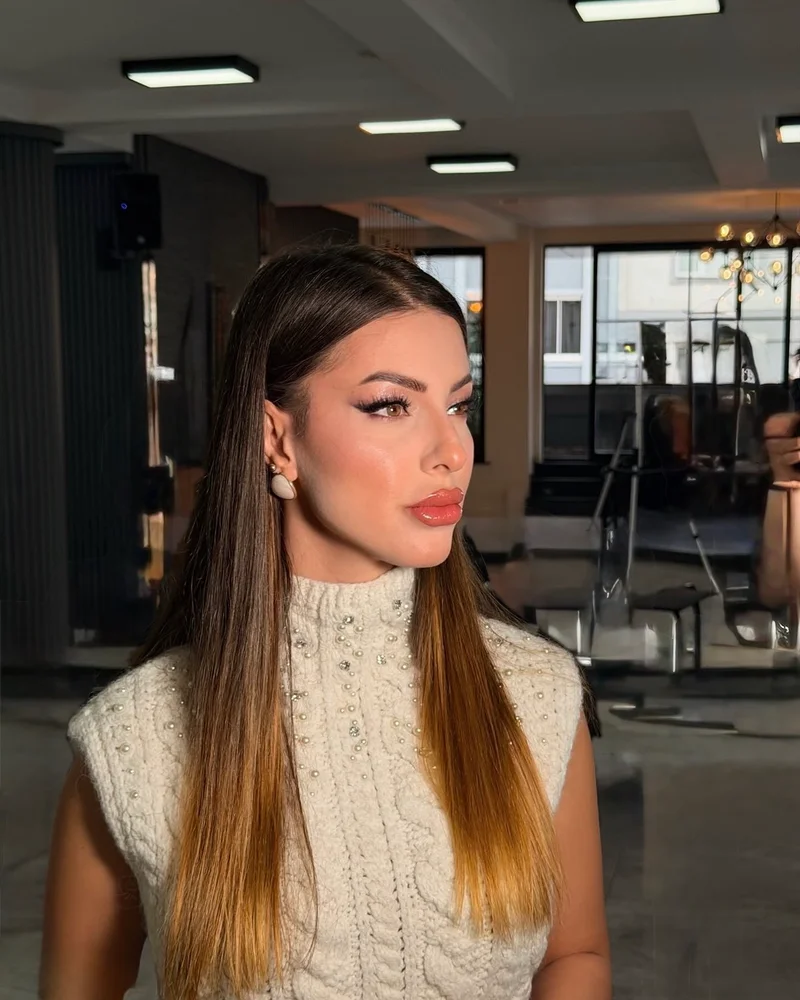
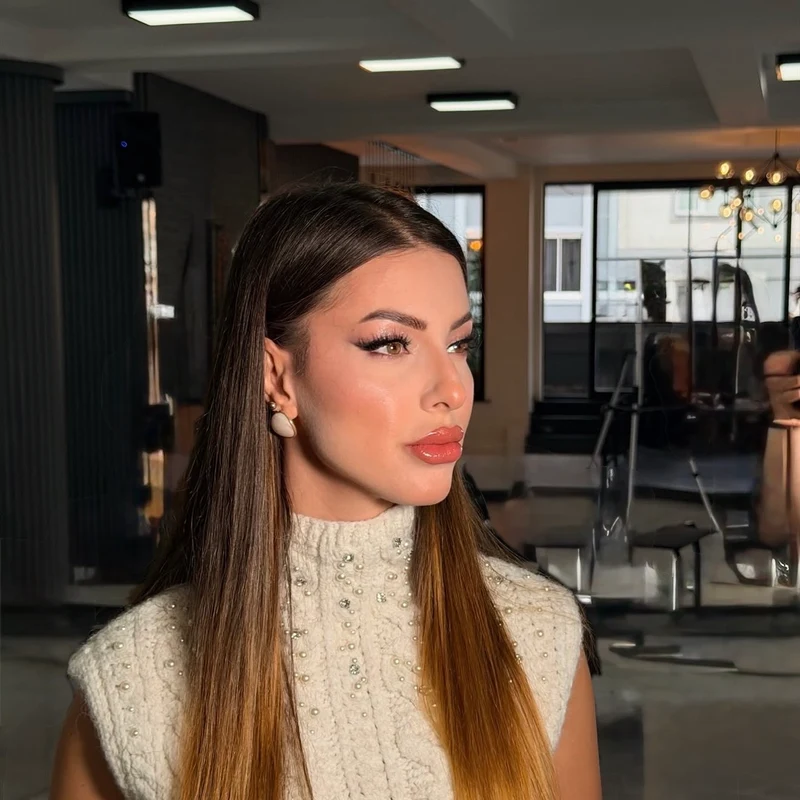
Reconvert 5 makeup card images with attention-based face crop
Switched from 800x1000 portrait (top crop) to 800x800 square
using sharp position:'attention' so faces are auto-centered.
objectPosition updated to center center to match square format.

Affected: gelin, nişan, gece, doğal, kına makyaj cards

https://claude.ai/code/session_01M4YojAbZdeX1LWdpwp8xyJ

diff --git a/src/pages/TokatMakyajPage.tsx b/src/pages/TokatMakyajPage.tsx
@@ -22,7 +22,7 @@ const SERVICES = [
     desc:   'Saatlerce bozulmayan, fotoğrafa yansıyan ve size özel ton çalışması. Deneme seansı ile birlikte.',
     bg:     'linear-gradient(160deg, #1A100C 0%, #2A1812 50%, #361E16 100%)',
     accent: '#C98F7A',
-    imgPos: 'center 0%',
+    imgPos: 'center center',
   },
   {
     slug:   'nisan-makyaji',
@@ -31,7 +31,7 @@ const SERVICES = [
     desc:   'Nişan töreninin ışıkları ve fotoğraf makinelerine dayanıklı, parlak ve zarif uygulama.',
     bg:     'linear-gradient(160deg, #180E0C 0%, #281610 50%, #321C12 100%)',
     accent: '#D4A090',
-    imgPos: 'center 0%',
+    imgPos: 'center center',
   },
   {
     slug:   'gece-makyaji',
@@ -40,7 +40,7 @@ const SERVICES = [
     desc:   'Davet, mezuniyet ve özel etkinlikler için dramatik, kalıcı ve güçlü makyaj.',
     bg:     'linear-gradient(160deg, #0E0A0C 0%, #1A1016 50%, #22141C 100%)',
     accent: '#B9816F',
-    imgPos: 'center 0%',
+    imgPos: 'center center',
   },
   {
     slug:   'dogal-makyaj',
@@ -49,7 +49,7 @@ const SERVICES = [
     desc:   'Ten renginizi öne çıkaran, hafif ve ferah bir görünüm. Ofis, kafe ve günlük kullanım için ideal.',
     bg:     'linear-gradient(160deg, #141008 0%, #221A0E 50%, #2C2212 100%)',
     accent: '#C98F7A',
-    imgPos: 'center 0%',
+    imgPos: 'center center',
   },
   {
     slug:   'kina-makyaji',
@@ -58,7 +58,7 @@ const SERVICES = [
     desc:   'Kına gecesine özgü renkli, coşkulu ve kutlamaya uygun özel tasarım makyaj.',
     bg:     'linear-gradient(160deg, #1A0C08 0%, #2A1208 50%, #38180A 100%)',
     accent: '#D4A090',
-    imgPos: 'center 0%',
+    imgPos: 'center center',
   },
   {
     slug:   'fotograf-makyaji',
